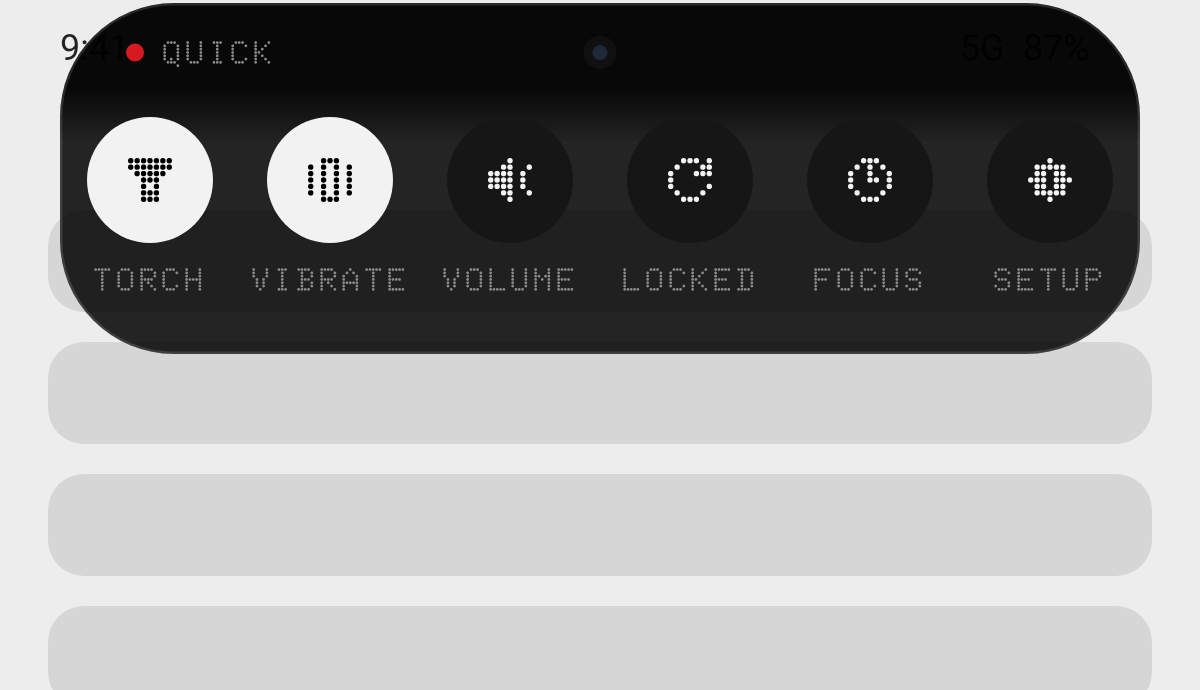
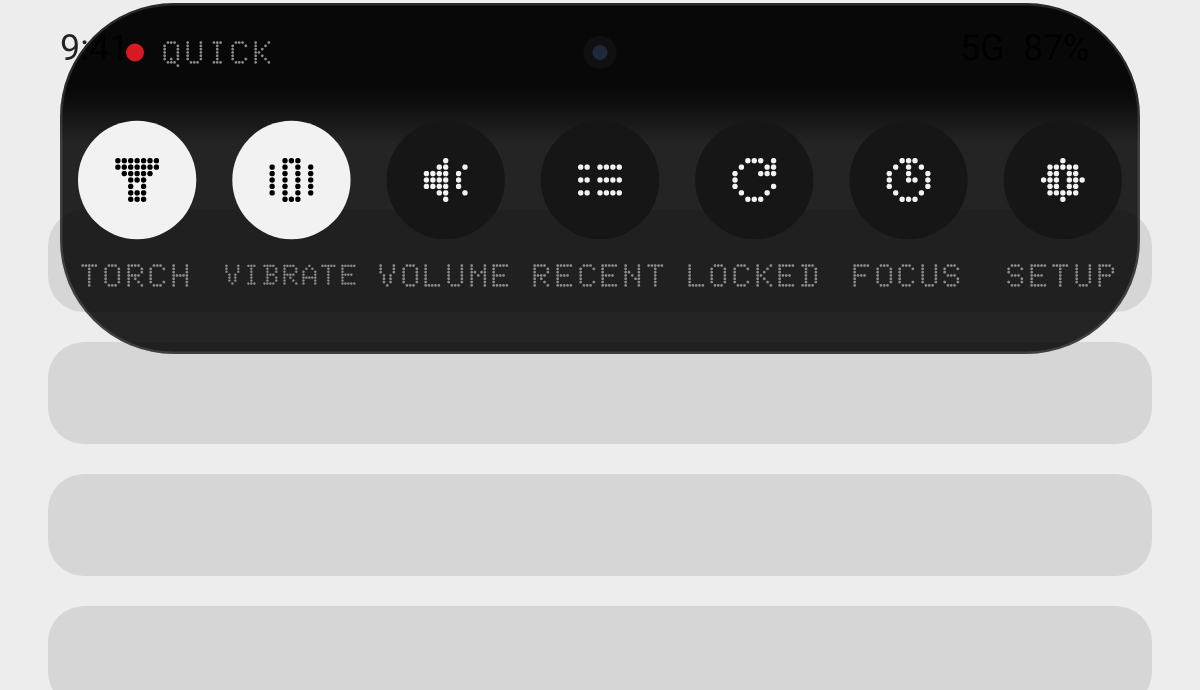
RECENT button in the long-press panel
A dependable way into recent notifications on phones where a tap or
swipe at the very top of the screen is taken by the system: the quick
panel gains a RECENT button (seven buttons, long labels shrink to fit).

Claude-Session: https://claude.ai/code/session_013Ux6V4Mu22KpPNhHEWNT6s

diff --git a/app/src/main/java/com/wallisland/island/IslandView.kt b/app/src/main/java/com/wallisland/island/IslandView.kt
@@ -61,7 +61,7 @@ class IslandView(context: Context, private val prefs: Prefs, private val host: H
         val focusOn: Boolean = false,
     )
 
-    enum class Quick { TORCH, RINGER, VOLUME, ROTATE, FOCUS, SETTINGS }
+    enum class Quick { TORCH, RINGER, VOLUME, RECENT, ROTATE, FOCUS, SETTINGS }
 
     private enum class Mode {
         IDLE, CALL, CALL_CARD, LIVE, MEDIA, MEDIA_EXPANDED, NOTICE, CHARGING, RINGER, UNLOCK, BUDS, TOGGLES, VOLUME,
@@ -1341,6 +1341,7 @@ class IslandView(context: Context, private val prefs: Prefs, private val host: H
                     else -> Triple(Glyph.BELL, "RING", false)
                 }
                 Quick.VOLUME -> Triple(Glyph.SPEAKER, "VOLUME", false)
+                Quick.RECENT -> Triple(Glyph.LIST, "RECENT", false)
                 Quick.ROTATE -> Triple(Glyph.ROTATE, if (q.autoRotate) "ROTATE" else "LOCKED", q.autoRotate)
                 Quick.FOCUS -> Triple(Glyph.TIMER, if (q.focusOn) "STOP" else "FOCUS", q.focusOn)
                 Quick.SETTINGS -> Triple(Glyph.GEAR, "SETUP", false)
@@ -1352,8 +1353,13 @@ class IslandView(context: Context, private val prefs: Prefs, private val host: H
             glyphPaint.color = if (active) Look.BLACK else if (dim) Look.DOT_OFF else Look.WHITE
             glyphPaint.alpha = alpha
             glyph.draw(canvas, cx - glyph.width(gs) / 2f, cy, gs, glyphPaint)
+            // Shrink a long label ("VIBRATE") to its slot rather than let neighbours touch.
+            val baseSize = labelPaint.textSize
+            val room = step - context.dp(4f)
+            if (labelPaint.measureText(label) > room) labelPaint.textSize = baseSize * room / labelPaint.measureText(label)
             val lw = labelPaint.measureText(label)
             drawText(canvas, label, cx - lw / 2f, cy + r + context.dp(12f), lw + 1f, labelPaint, centerY = true)
+            labelPaint.textSize = baseSize
             hitQuick[i].set(cx - step / 2f, cy - r - context.dp(6f), cx + step / 2f, cy + r + context.dp(20f))
         }
     }
@@ -1595,6 +1601,11 @@ class IslandView(context: Context, private val prefs: Prefs, private val host: H
         if (action == Quick.SETTINGS) {
             closeToggles()
             host.openSettings()
+            return
+        }
+        if (action == Quick.RECENT) {
+            closeToggles()
+            openHistory(fromTap = true)
             return
         }
         if (action == Quick.VOLUME) {

diff --git a/app/src/main/java/com/wallisland/island/IslandService.kt b/app/src/main/java/com/wallisland/island/IslandService.kt
@@ -809,6 +809,7 @@ class IslandService : Service(), IslandHub.Listener, IslandView.Host,
             }
             IslandView.Quick.FOCUS -> toggleFocus()
             IslandView.Quick.VOLUME -> openVolumeBar()
+            IslandView.Quick.RECENT -> Unit // handled by the island itself
             IslandView.Quick.SETTINGS -> openSettings()
         }
         island?.refreshQuick()

diff --git a/app/src/main/java/com/wallisland/island/Look.kt b/app/src/main/java/com/wallisland/island/Look.kt
@@ -309,6 +309,15 @@ enum class Glyph(vararg rows: String) {
         "..###..",
         "...#...",
     ),
+    LIST(
+        ".......",
+        "##.####",
+        ".......",
+        "##.####",
+        ".......",
+        "##.####",
+        ".......",
+    ),
     PHONE(
         "##.....",
         "###....",

diff --git a/README.md b/README.md
@@ -64,7 +64,8 @@ design language: black, white, one red, and dots everywhere.
 - **Calls.** A ringing call opens a card with green Answer and red Decline. Tap an ongoing call's
   pill for a red hang-up button. Uses the call's own notification buttons; for calls without them,
   the optional *Phone calls* permission lets the island answer and hang up through Android.
-- **Recent notifications.** Tap the empty pill (or swipe down on it) for your last five
+- **Recent notifications.** Tap the empty pill, swipe down on it, or use RECENT in the long-press
+  panel for your last five
   notifications, including ones already in the shade; tap one to open it. Tap "ALL ›" or swipe down
   again for the full notification shade.
 - **Island replaces pop-ups.** Stops notifications showing twice (the system banner and the island).
